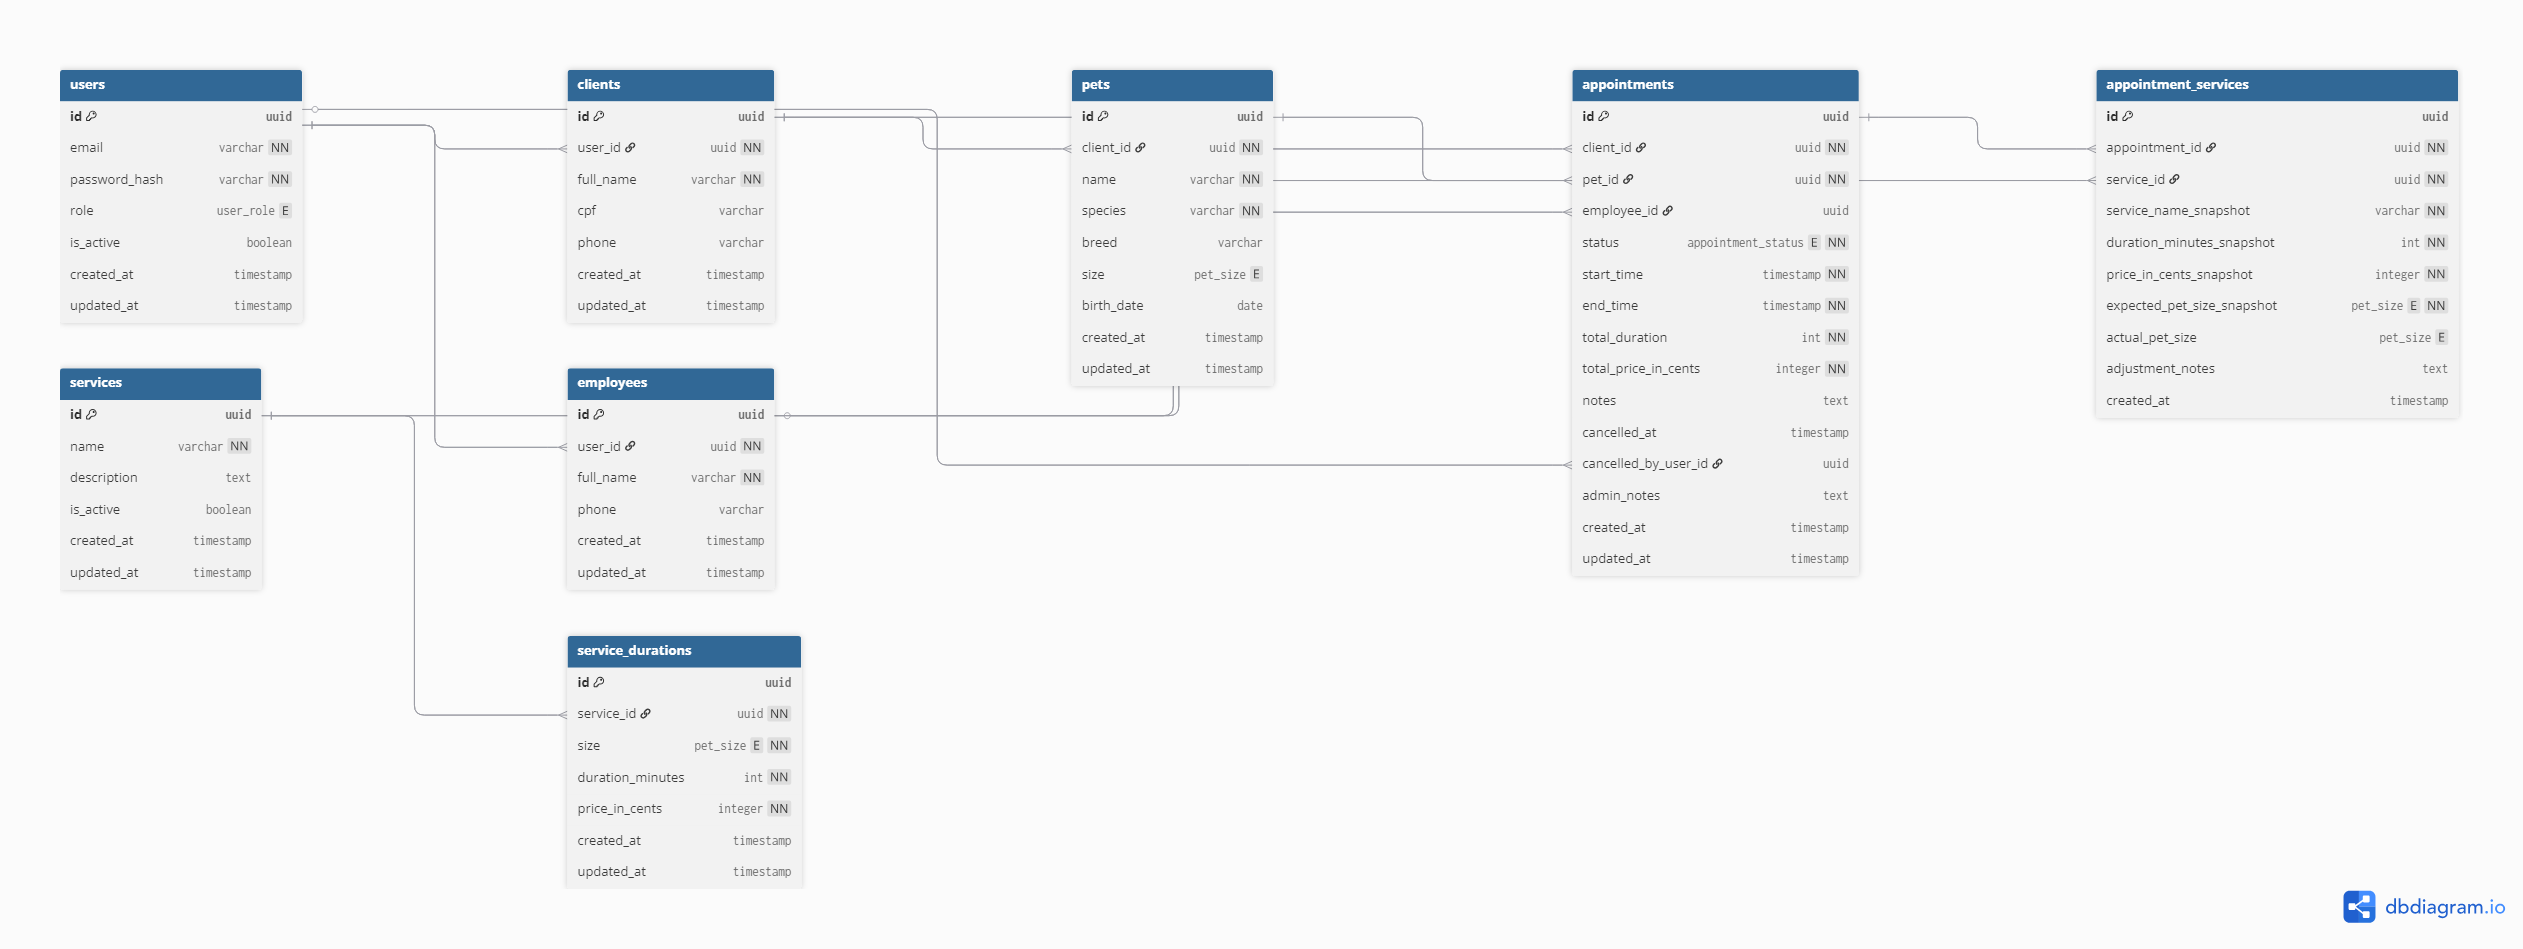
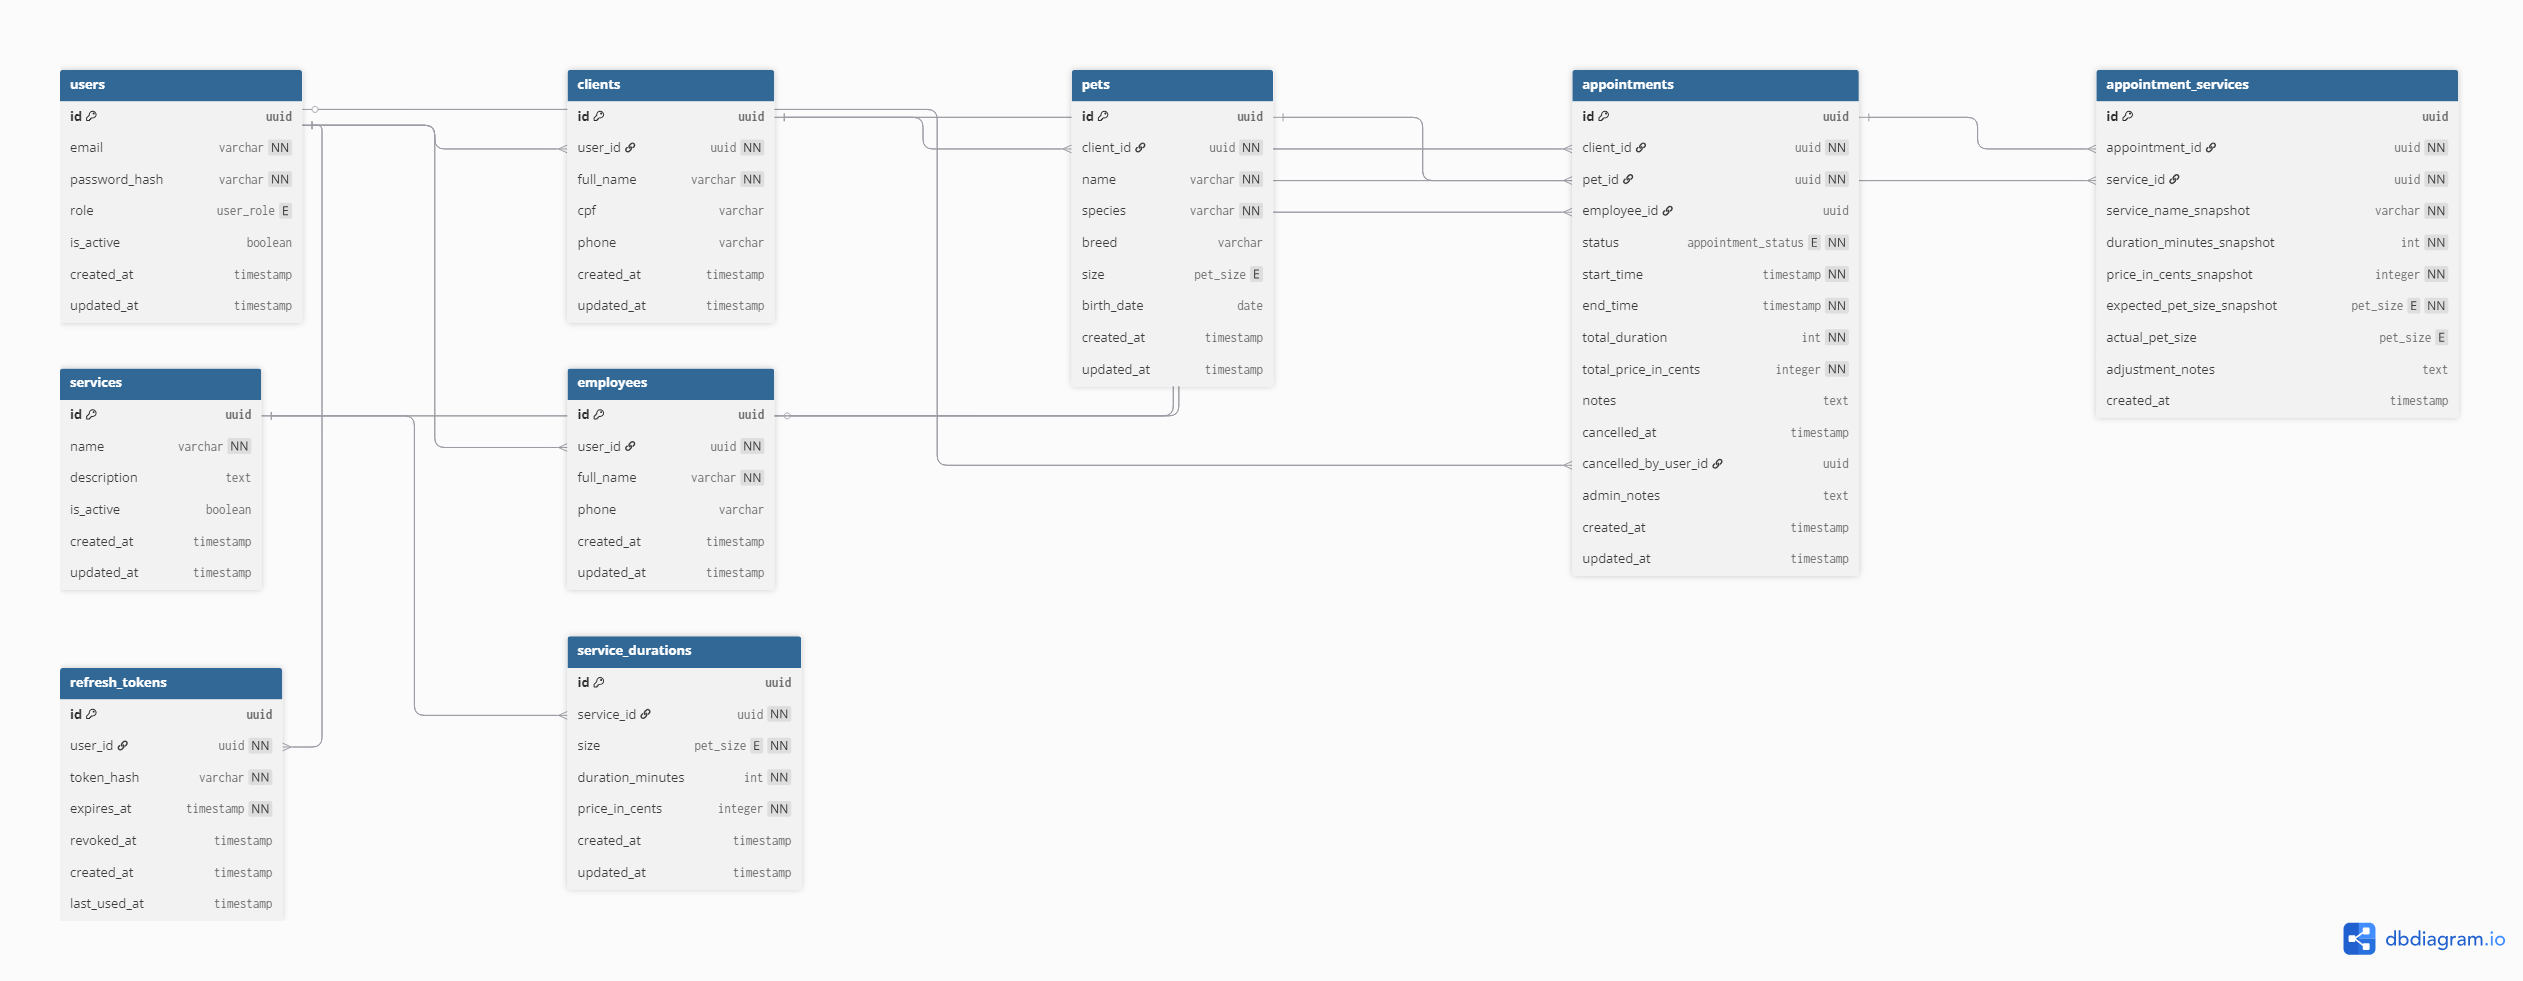
docs(database): add refresh_tokens table to database model

diff --git a/docs/authentication-and-rbac.md b/docs/authentication-and-rbac.md
@@ -133,8 +133,9 @@ id          UUID PRIMARY KEY
 user_id     UUID REFERENCES users(id)
 token_hash  VARCHAR NOT NULL
 expires_at  TIMESTAMP NOT NULL
-revoked_at  TIMESTAMP NULL
-created_at  TIMESTAMP NOT NULL
+revoked_at  TIMESTAMP
+created_at  TIMESTAMP
+last_used_at TIMESTAMP
 ```
 
 ### Objetivo
